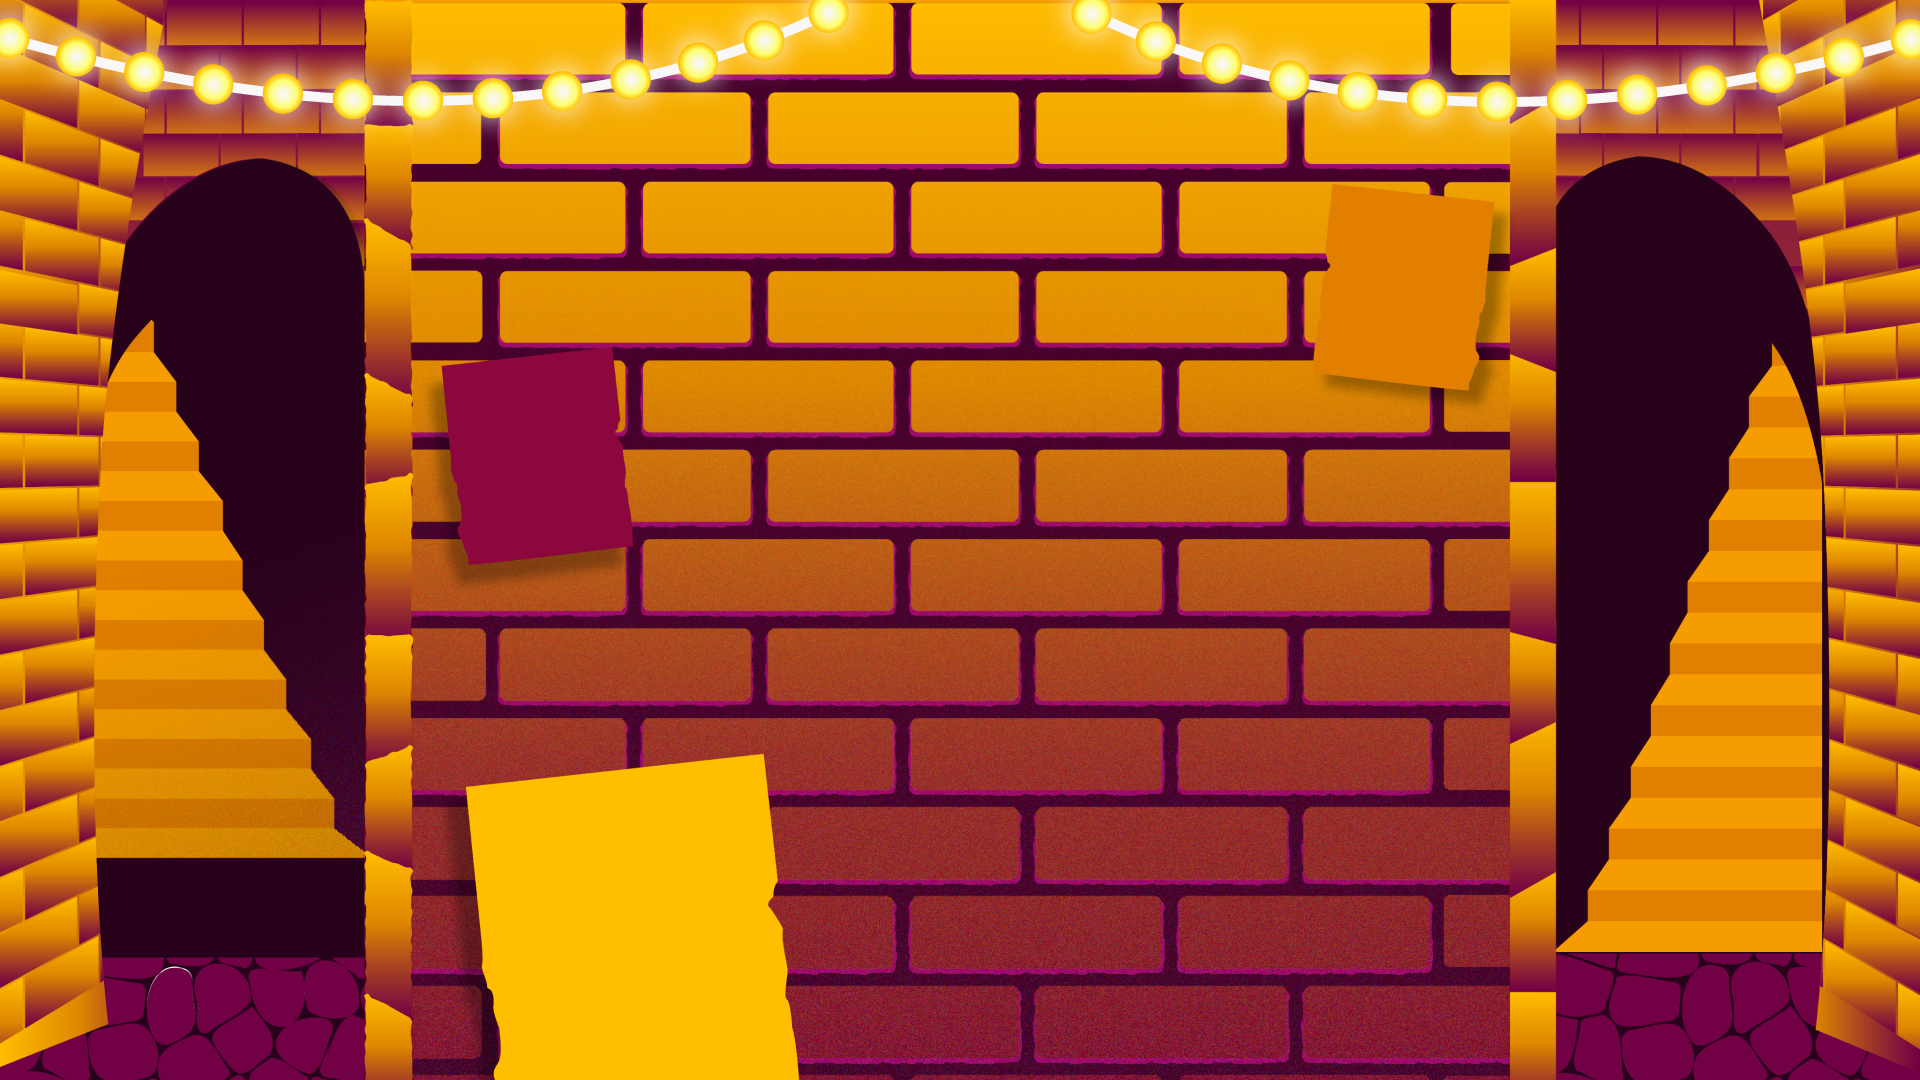
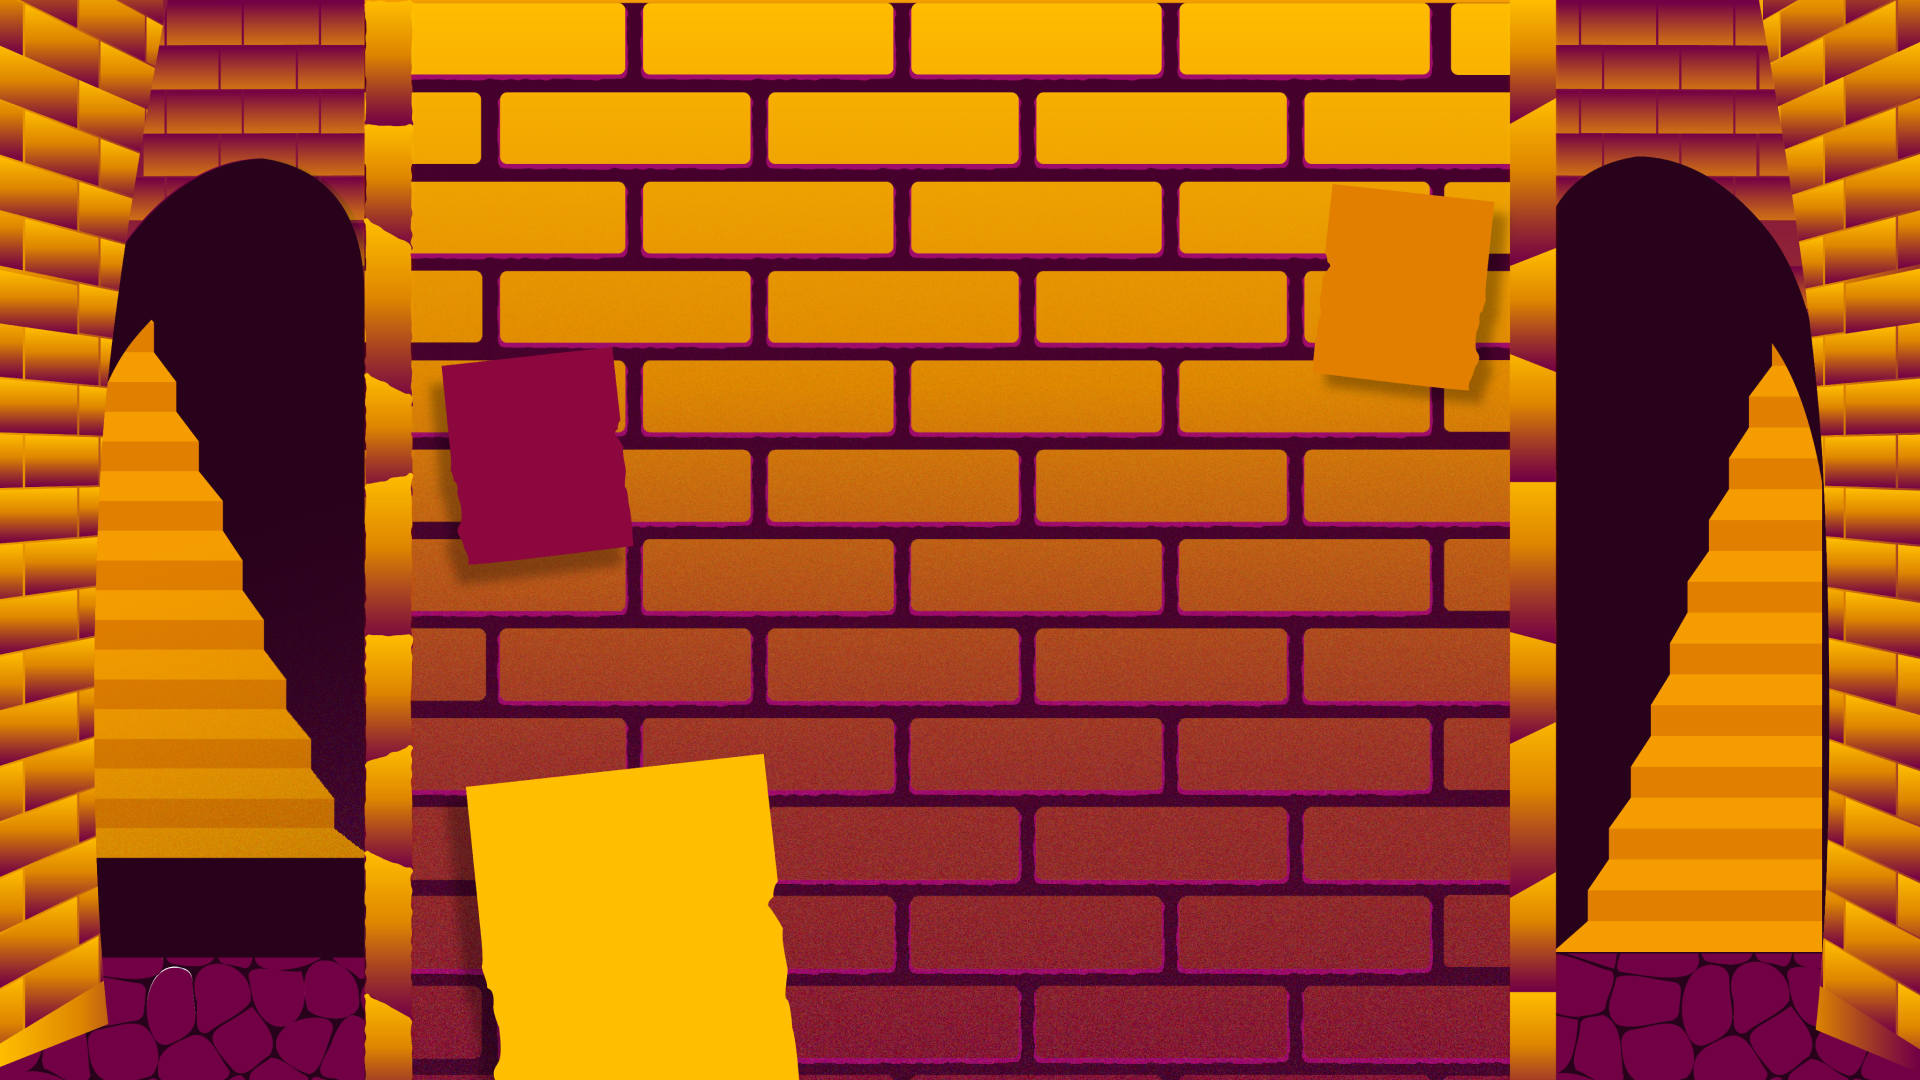
feat: api integration and styling

Changed region(s): [[0.5312, 0.0, 1.0, 0.1222], [0.0, 0.0, 0.4688, 0.1222]]

diff --git a/src/components/ResultModal.tsx b/src/components/ResultModal.tsx
@@ -10,10 +10,21 @@ import {
   Text,
 } from "@chakra-ui/react";
 
+type InterviewStatus = {
+  nim: string;
+  nama: string;
+  divisi: string;
+  divisiAlt: string;
+  ruangan: string;
+  tanggal: string;
+  status: "Registered" | "Interview" | "Accepted" | "Rejected";
+  divisiFinal: string;
+};
+
 interface ResultModalProps {
   isOpen: boolean;
   onClose: () => void;
-  interviewStatus: "pass" | "fail" | "registered";
+  interviewStatus: InterviewStatus | null;
 }
 
 const ResultModal: React.FC<ResultModalProps> = ({
@@ -21,40 +32,77 @@ const ResultModal: React.FC<ResultModalProps> = ({
   onClose,
   interviewStatus,
 }) => {
-  let message = "";
-
-  switch (interviewStatus) {
-    case "pass":
-      message = "Congratulations! You have passed the interview stage.";
-      break;
-    case "fail":
-      message = "Sorry! You have not passed the interview stage.";
-      break;
-    case "registered":
-      message =
-        "Please wait. The analysis process is still ongoing. We appreciate your patience.";
-      break;
-    default:
-      message = "Invalid interview status.";
-      break;
-  }
-
   return (
-    <Modal isOpen={isOpen} isCentered onClose={onClose}>
-      <ModalOverlay />
-      <ModalContent bgColor={"#e9e9c0"}>
-        <ModalHeader>Interview Status</ModalHeader>
-        <ModalBody>
-          <Text mb={"10px"}>{message}</Text>
-        </ModalBody>
+    interviewStatus && (
+      <Modal isOpen={isOpen} isCentered onClose={onClose}>
+        <ModalOverlay />
+        <ModalContent bgColor={"#e9e9c0"} m={"1rem"}>
+          <ModalHeader>Interview Status</ModalHeader>
+          <ModalBody>
+            {interviewStatus.status === "Registered" && (
+              <Text>
+                Hai, {interviewStatus.nama}. Kamu telah mendaftar sebagai calon
+                panitia Maxima 2024. Silahkan cek berkala untuk mendapatkan
+                informasi lebih lanjut.
+              </Text>
+            )}
 
-        <ModalFooter>
-          <Button colorScheme="teal" onClick={onClose}>
-            Close
-          </Button>
-        </ModalFooter>
-      </ModalContent>
-    </Modal>
+            {interviewStatus.status === "Interview" && (
+              <>
+                <Text>
+                  Hai, {interviewStatus.nama}. Selamat, kamu telah berhasil
+                  lanjut ke tahap interview. Berikut ini jadwal interviewmu :
+                </Text>
+
+                <Text fontWeight={"bold"}>
+                  Ruangan : {interviewStatus.ruangan}
+                </Text>
+                <Text fontWeight={"bold"}>
+                  Tanggal : {interviewStatus.tanggal}
+                </Text>
+
+                <Text>Silahkan datang tepat waktu.</Text>
+              </>
+            )}
+
+            {interviewStatus.status === "Accepted" && (
+              <Text>
+                Selamat,{" "}
+                <Text as={"span"} fontWeight={"bold"}>
+                  {interviewStatus.nama}
+                </Text>
+                . Kamu telah diterima sebagai panitia Maxima 2024 di divisi{" "}
+                <Text as={"span"} fontWeight={"bold"}>
+                  {interviewStatus.divisiFinal}
+                </Text>
+                . Kami tunggu kehadiranmu di panitia Maxima 2024.
+              </Text>
+            )}
+
+            {interviewStatus.status === "Rejected" && (
+              <Text>
+                Maaf, {interviewStatus.nama}. Kamu belum berkesempatan menjadi
+                panitia Maxima 2024. Tetap semangat dan jangan menyerah!
+              </Text>
+            )}
+          </ModalBody>
+
+          <ModalFooter>
+            <Button
+              // bgColor={"#F59D00"}
+              // color={"white"}
+              // _hover={{
+              //   bgColor: "#E79200",
+              // }}
+              colorScheme="red"
+              onClick={onClose}
+            >
+              Close
+            </Button>
+          </ModalFooter>
+        </ModalContent>
+      </Modal>
+    )
   );
 };
 

diff --git a/src/components/ModalCheck.tsx b/src/components/ModalCheck.tsx
@@ -10,21 +10,38 @@ import {
   Text,
   Button,
 } from "@chakra-ui/react";
-import ResultModal from "./ResultModal";
+import ResultModal from "@/components/ResultModal";
+
+import useApi, { ResponseModel, useToastErrorHandler } from "@/hooks/useApi";
 
 interface ModalCheckProps {
   isOpen: boolean;
   onClose: () => void;
 }
 
-const ModalCheck: React.FC<ModalCheckProps> = ({ isOpen, onClose }) => {
+type InterviewStatus = {
+  nim: string;
+  nama: string;
+  divisi: string;
+  divisiAlt: string;
+  ruangan: string;
+  tanggal: string;
+  status: "Registered" | "Interview" | "Accepted" | "Rejected";
+  divisiFinal: string;
+};
+
+const ModalCheck = ({ isOpen, onClose }: ModalCheckProps) => {
+  const api = useApi();
+  const errorHandler = useToastErrorHandler();
+
   const [resultModalOpen, setResultModalOpen] = useState<boolean>(false);
-  const [interviewStatus, setInterviewStatus] = useState<
-    "pass" | "fail" | "registered"
-  >("registered");
+  const [interviewStatus, setInterviewStatus] =
+    useState<InterviewStatus | null>(null);
+
+  const [isLoading, setIsLoading] = useState<boolean>(false);
 
   const [nim, setNim] = useState<string>("");
-  const isNimLengthValid = nim.trim().length >= 11;
+  const isNimLengthValid = nim.trim().length === 11;
 
   const handleNimChange = (event: React.ChangeEvent<HTMLInputElement>) => {
     const numericInput = event.target.value.replace(/[^0-9]/g, "");
@@ -32,12 +49,22 @@ const ModalCheck: React.FC<ModalCheckProps> = ({ isOpen, onClose }) => {
   };
 
   const handleCheckButtonClick = () => {
-    // onClose();
-    setResultModalOpen(true);
+    setIsLoading(true);
+    api
+      .get<ResponseModel<InterviewStatus>>(`/data/${nim}`)
+      .then(({ data }) => {
+        setInterviewStatus(data.data);
+        setResultModalOpen(true);
+      })
+      .catch(errorHandler)
+      .finally(() => {
+        setIsLoading(false);
+      });
   };
 
   const handleResultModalClose = () => {
     setResultModalOpen(false);
+    setInterviewStatus(null);
     onClose();
   };
 
@@ -45,8 +72,8 @@ const ModalCheck: React.FC<ModalCheckProps> = ({ isOpen, onClose }) => {
     <>
       <Modal isOpen={isOpen} isCentered onClose={onClose}>
         <ModalOverlay />
-        <ModalContent bgColor={"#e9e9c0"}>
-          <ModalHeader>Interview Test Status</ModalHeader>
+        <ModalContent bgColor={"#e9e9c0"} m={"1rem"}>
+          <ModalHeader>Check your registration status!</ModalHeader>
           <ModalBody>
             <Text mb={"10px"}>Enter your NIM in the input box:</Text>
             <Input
@@ -65,9 +92,15 @@ const ModalCheck: React.FC<ModalCheckProps> = ({ isOpen, onClose }) => {
               Close
             </Button>
             <Button
-              colorScheme="teal"
+              // colorScheme="teal"
+              bgColor={"#F59D00"}
+              color={"white"}
+              _hover={{
+                bgColor: "#E79200",
+              }}
               onClick={handleCheckButtonClick}
               isDisabled={!isNimLengthValid}
+              isLoading={isLoading}
             >
               Check
             </Button>

diff --git a/src/pages/index.tsx b/src/pages/index.tsx
@@ -32,6 +32,31 @@ const LandingPage = () => {
       pos={"relative"}
       overflow={"hidden"}
     >
+      {/* lampu */}
+      <Image
+        as={motion.img}
+        display={"flex"}
+        src="/assets/lampu.png"
+        pos={"absolute"}
+        top={0}
+        minW={"72rem"}
+        fit={"fill"}
+        objectPosition={"center"}
+        variants={{
+          initial: {
+            // rotate: [0, 360],
+            filter: ["brightness(1)", "brightness(1.5)", "brightness(1)"],
+            transition: {
+              duration: 0.75,
+              repeat: Infinity,
+              repeatType: "mirror",
+              ease: "backOut",
+            },
+          },
+        }}
+        animate={["initial"]}
+      />
+
       <Image
         src="/assets/paper.png"
         alt="welcome to maxima 2024"
@@ -41,7 +66,7 @@ const LandingPage = () => {
       <VisuallyHidden>Welcome to Maxima 2024</VisuallyHidden>
 
       {/* button */}
-      {new Date() <= openDate ? (
+      {new Date() >= openDate ? (
         <Stack
           direction={"row"}
           pos={"absolute"}
@@ -127,9 +152,9 @@ const LandingPage = () => {
         as={motion.img}
         src="/assets/rightHand.png"
         pos={"absolute"}
-        w={["16rem", "16rem", "22rem", "24rem", "32rem"]}
+        w={["22rem", "18rem", "22rem", "24rem", "32rem"]}
         bottom={-12}
-        right={[-20, -14, -14, -14, -14, -14]}
+        right={[-40, -14, -14, -14, -14, -14]}
         variants={{
           initial: {
             y: [-13, 11],
@@ -155,9 +180,9 @@ const LandingPage = () => {
         src="/assets/leftHand.png"
         pos={"absolute"}
         // w={["14rem", "16rem", "24rem", "24rem", "32rem"]}
-        w={["14rem", "12rem", "20rem", "22rem", "28rem"]}
+        w={["18rem", "16rem", "20rem", "22rem", "28rem"]}
         bottom={-12}
-        left={-8}
+        left={-20}
         variants={{
           initial: {
             y: [-8, 10],

diff --git a/src/hooks/useApi.ts b/src/hooks/useApi.ts
@@ -1,0 +1,78 @@
+import axios, { AxiosError, isAxiosError } from "axios";
+import { useToast } from "@chakra-ui/react";
+// import { useNavigate } from "@/router";
+
+export const baseUrl =
+  import.meta.env.VITE_API_BASE_URL ?? "http://localhost:3000/api";
+
+export const instance = axios.create({
+  baseURL: baseUrl,
+});
+
+export type ResponseModel<T = undefined> = {
+  code: number;
+  message: string;
+  data: T;
+};
+
+export enum Responses {
+  SUCCESS = 200,
+  CREATED = 201,
+  BAD_REQUEST = 400,
+  UNAUTHORIZED = 401,
+  NOT_FOUND = 404,
+  FORBIDDEN = 403,
+  CONFLICT = 409,
+  VALIDATION_ERROR = 422,
+  INTERNAL_SERVER_ERROR = 500,
+}
+
+const useApi = () => {
+  return instance;
+};
+
+export const useToastErrorHandler = () => {
+  const toast = useToast();
+
+  return (error: AxiosError<ResponseModel>) => {
+    console.error(error);
+
+    if (!isAxiosError(error)) {
+      toast({
+        title: "Error",
+        description: "Something went wrong",
+        status: "error",
+        isClosable: true,
+      });
+      return;
+    }
+
+    if (error.response) {
+      // handle error code
+
+      toast({
+        title: error.response.data.code
+          ? Responses[error.response.data.code]
+          : "Error",
+        description: error.response.data.message || "Something went wrong",
+        status: "error",
+        isClosable: true,
+      });
+      return;
+    }
+  };
+};
+
+// prepare for useSwr hook
+export const useFetcher = () => {
+  const api = useApi();
+  const toastErrorHandler = useToastErrorHandler();
+
+  return (url: string) => {
+    return api
+      .get(url)
+      .then((res) => res.data.data)
+      .catch(toastErrorHandler);
+  };
+};
+export default useApi;

diff --git a/src/pages/daftar/index.tsx b/src/pages/daftar/index.tsx
@@ -1,10 +1,8 @@
-import useRandomValue from "@/hooks/useRandomValue";
 import { useNavigate } from "@/router";
 import { Box, Stack, useToast } from "@chakra-ui/react";
 import { useEffect } from "react";
 
 const DaftarForm = () => {
-  const token = useRandomValue(6);
   const openDate = new Date("2024-02-07T00:00:00Z");
   const nav = useNavigate();
   const toast = useToast();
@@ -39,7 +37,7 @@ const DaftarForm = () => {
       {new Date() >= openDate && (
         <Box
           as="iframe"
-          src={`https://docs.google.com/forms/d/e/1FAIpQLSerZfyUIfp5PKnHA6Qqvz7w05duNdQKL90JU7qmjOTAb_hIRg/viewform?embedded=true&usp=pp_url&entry.1330697121=${token}`}
+          src={`https://docs.google.com/forms/d/e/1FAIpQLSerZfyUIfp5PKnHA6Qqvz7w05duNdQKL90JU7qmjOTAb_hIRg/viewform?embedded=true`}
           w="100%"
           h="100%"
           minH={"100vh"}
